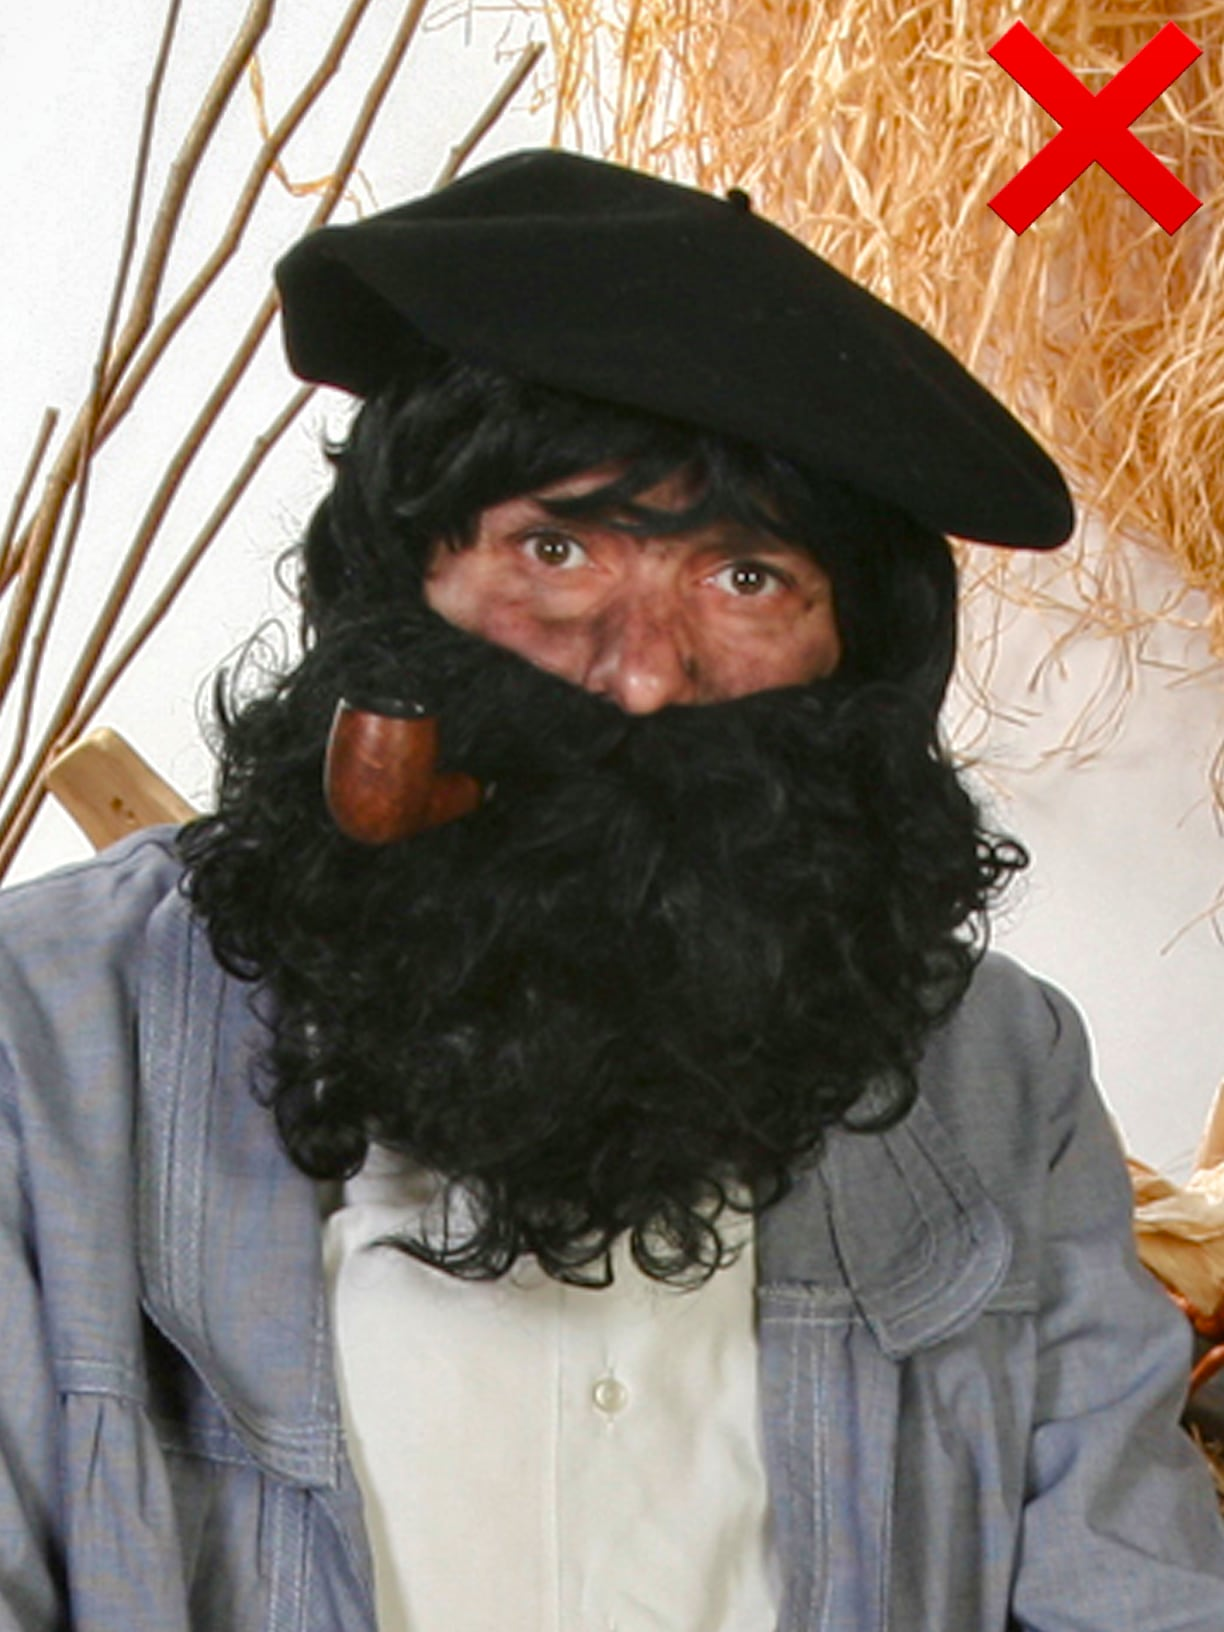
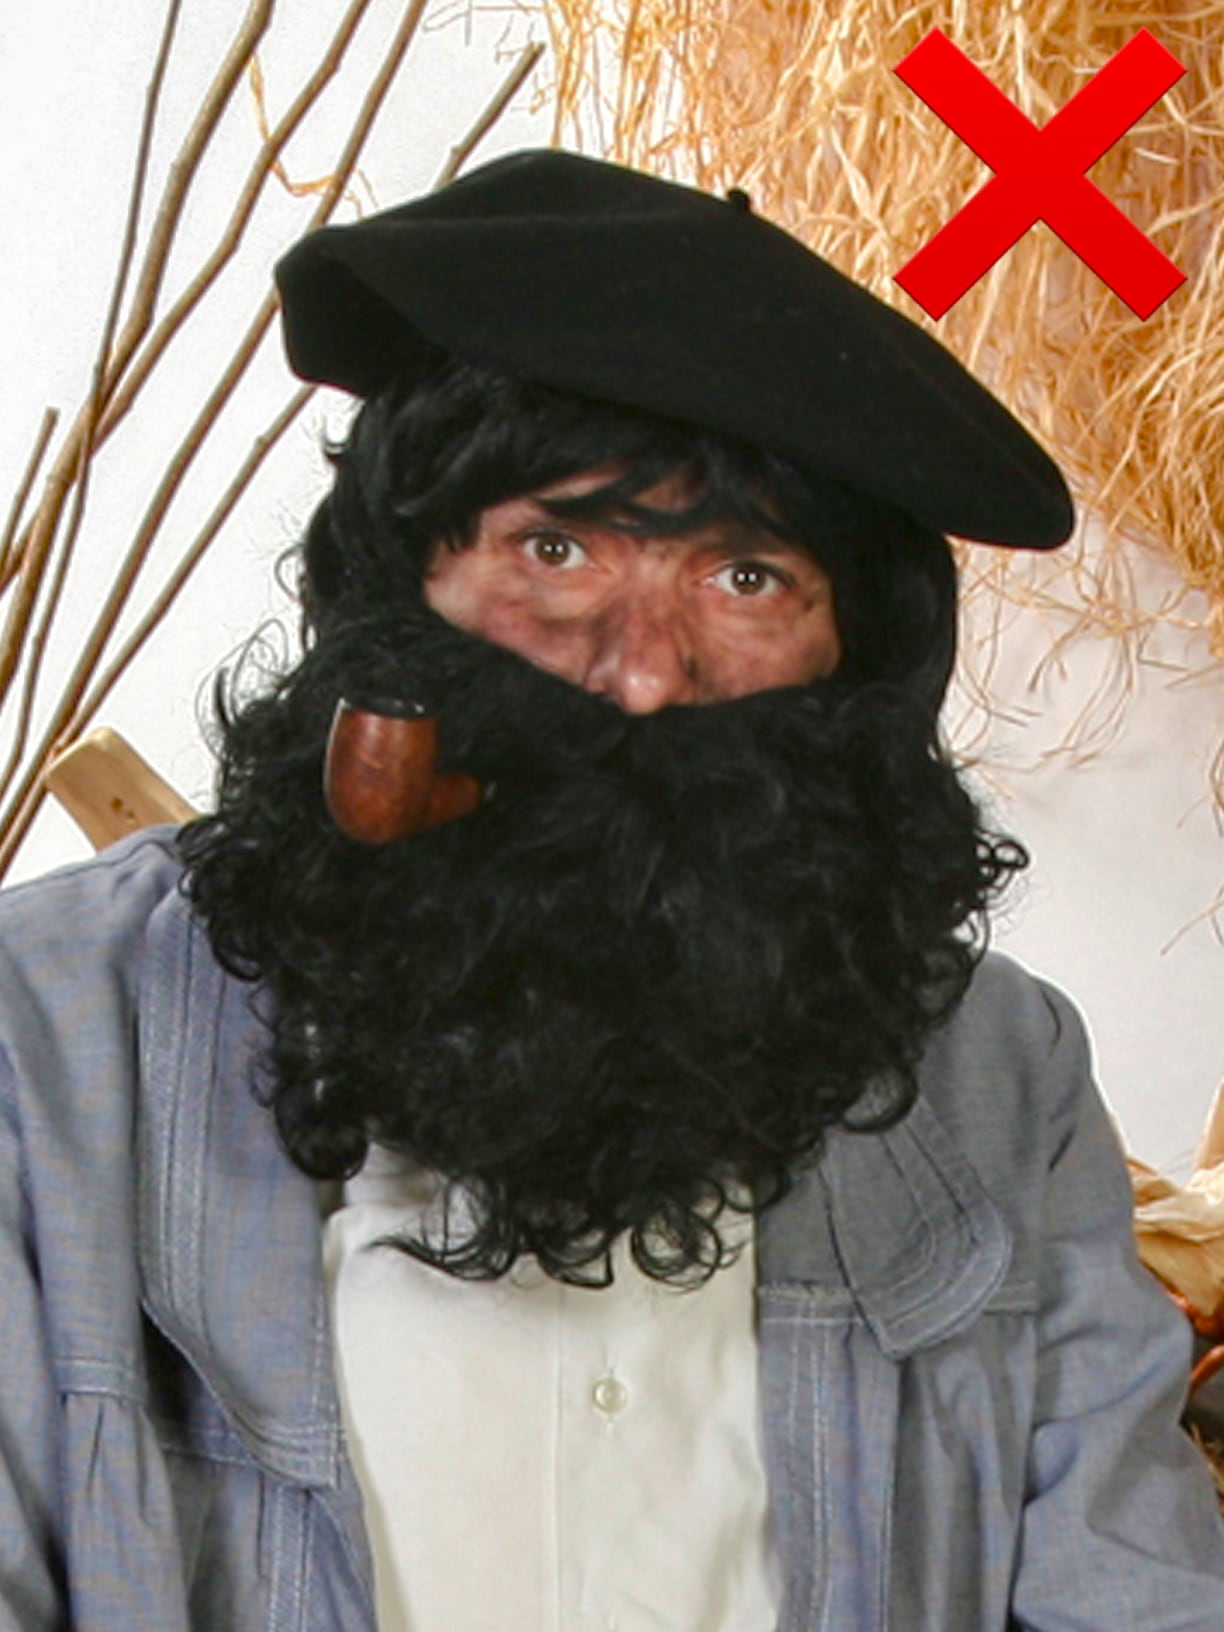
Fine tuning whatever section (FINISHED FIRST DRAFT

Changed region(s): [[0.7141, 0.0, 0.9935, 0.2188]]

diff --git a/index.html b/index.html
@@ -253,23 +253,68 @@
         </p>
       </section>
       <section class="resume">
-        <br />
-        <br />
-        <br />
-        <br />
-        <br />
-        <br />
-        <br />
-        <br />
-        <br />
-        <br />
-        <br />
-        <br />
-        <br />
-        <br />
-        <br />
-        <br />
+        <h2>!REPASAMO LO IMPORTANTE!</h2>
+        <span class="pitch">Tu foto hecha. Tu trámite, en marcha</span>
+        <ol class="repasamos-lista">
+          <li>Sin cita previa.</li>
+          <li>Fotografías listas al instante.</li>
+          <li>Calidad de estudio profesional.</li>
+          <li>Validación biométrica.</li>
+          <li>Repetición gratuita.</li>
+        </ol>
+        <button class="action-btn-resume">ABRIR EN MAPAS</button
+        ><button class="action-btn-resume">LLAMANOS</button
+        ><button class="action-btn-resume">WHATSUP</button>
+        <h2 class="pitch-resume">
+          Estamos al lado. Entra, hazte la foto y sigue con tu día.
+        </h2>
       </section>
+      <footer class="footer">
+        <h2>
+          ESTUDIO <br />
+          FOTOGRAFICO
+        </h2>
+        <img
+          class="footer-logo"
+          src="./assets/images/logo-old-new.png"
+          alt=""
+        />
+        <h3>DIRECCIÓN</h3>
+        <p>
+          Plaza Villamonte A-2. <br />
+          Calle Bolue 3BIS.<br />
+          Algorta, Getxo
+        </p>
+        <h3>HORARIOS</h3>
+        <p>
+          De lunes a viernes:<br />
+          09:30 - 13:30<br />
+          17:00 - 19:30<br />
+          <br />
+          Sabado - Domingo<br />
+          Cerrado
+        </p>
+        <h3>TELÉFONO</h3>
+        <p>944 302 771</p>
+        <div class="separator-rojo">
+          <img
+            src="./assets/images/tiktok.png"
+            alt=""
+          />
+          <img
+            src="./assets/images/mtdn.png"
+            alt=""
+          />
+          <img
+            src="./assets/images/yt.png"
+            alt=""
+          />
+        </div>
+        <p>
+          WebDesign by Drkedrkedjon <br />
+          ©Argazkilur. Bilbao - 2027
+        </p>
+      </footer>
     </main>
   </body>
 </html>

diff --git a/styles/styles.css b/styles/styles.css
@@ -504,11 +504,99 @@ body {
 /* RESUME SECTION START */
 
 .resume {
+  padding-inline: 1rem;
+  display: flex;
+  flex-direction: column;
   background-color: var(--amarillo);
   clip-path: var(--wavy-both);
+  padding-block: 7rem;
+
+  & .repasamos-lista {
+    max-width: 80vw;
+    align-self: center;
+    margin-block: 2rem;
+    font-variation-settings:
+      "wght" 500,
+      "wdth" 100,
+      "opsz" 100;
+  }
+
+  & .action-btn-resume {
+    align-self: center;
+    font-size: 1.5rem;
+    background-color: var(--azul);
+    color: var(--blanco);
+    padding: 12px 30px;
+    border-radius: 50px;
+    border: 4px solid var(--blanco);
+    box-shadow: var(--box-shadow);
+    margin-top: 1rem;
+    min-width: 15rem;
+    transform: rotate(4deg);
+    translate: -40px;
+    font-variation-settings:
+      "wght" 600,
+      "wdth" 75,
+      "opsz" 30;
+  }
+
+  & .action-btn-resume:nth-of-type(2) {
+    translate: 0px;
+  }
+
+  & .action-btn-resume:nth-of-type(3) {
+    translate: 40px;
+    rotate: 6deg;
+  }
+
+  & .pitch-resume {
+    margin-top: 5rem;
+  }
 }
 
-
-
-
 /* RESUME SECTION END */
+/* FOOTER SECTION START */
+
+.footer {
+  display: flex;
+  flex-direction: column;
+  align-items: center;
+  background-color: var(--negro);
+  clip-path: var(--wavy-top);
+  padding-block: 6rem;
+  padding-inline: 2rem;
+  text-align: center;
+
+  & h2 {
+    color: var(--amarillo);
+    text-shadow: var(--text-shadow);
+  }
+
+  & h3 {
+    color: var(--amarillo);
+    margin-top: 3rem;
+  }
+
+  & p {
+    color: var(--blanco);
+  }
+
+  & .separator-rojo {
+    width: 80vw;
+    /* height: 40px; */
+    background-color: var(--rojo);
+    margin-top: 3rem;
+    border-radius: 8px;
+    padding: 10px 30px;
+    display: flex;
+    justify-content: space-evenly;
+  }
+
+  & p:last-of-type {
+    margin-block: 3rem;
+    font-size: 1rem;
+    line-height: 1.2;
+  }
+}
+
+/* FOOTER SECTION END */

diff --git a/styles/fonts.css b/styles/fonts.css
@@ -12,7 +12,8 @@ html {
   font-family: 'Mona Sans VF';
 }
 
-p {
+p,
+ol {
   font-size: clamp(1.313rem, 0.442vw + 1.209rem, 1.563rem);
   line-height: clamp(2.031rem, -0.122vw + 2.128rem, 2.1rem);
   font-variation-settings:
